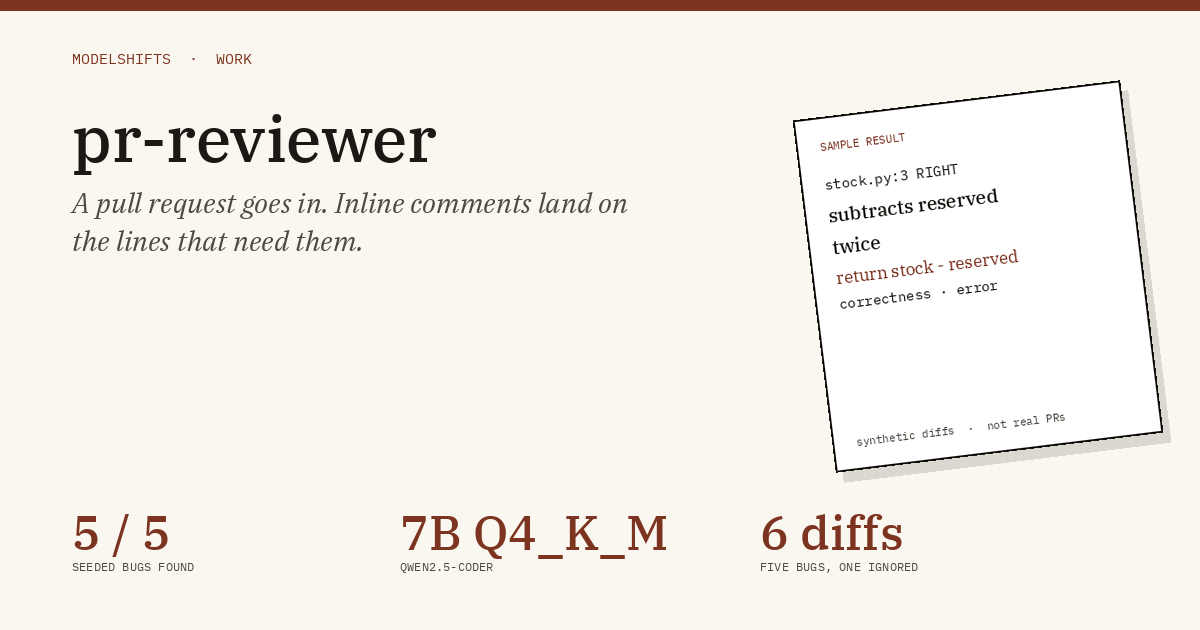
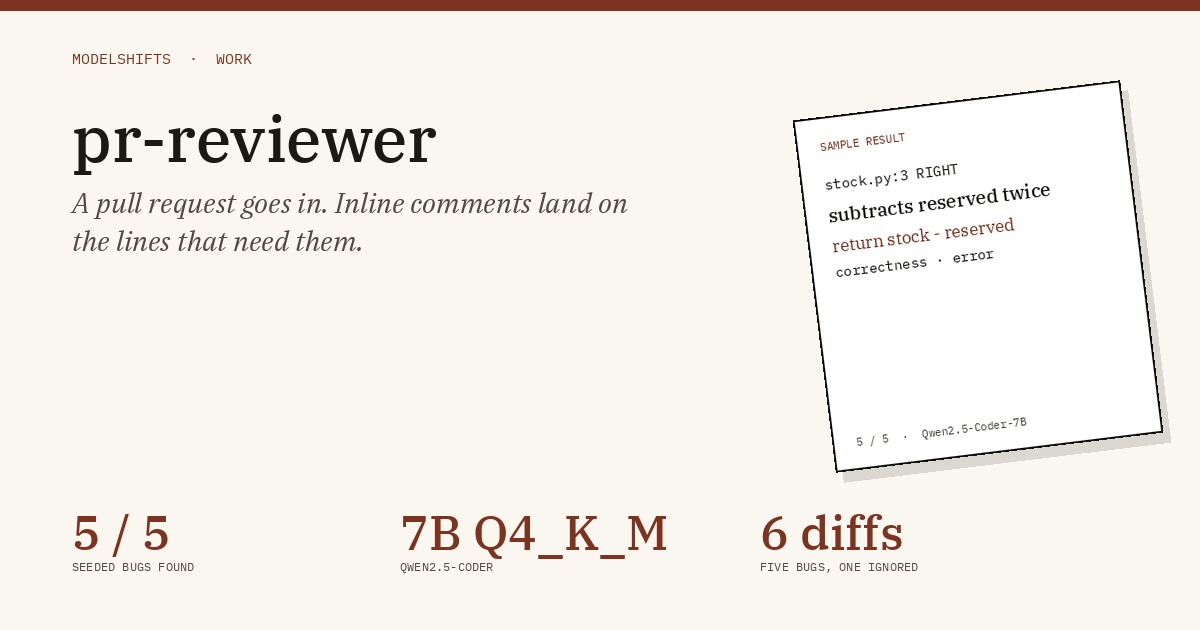
Attach the measured 5/5 eval and drop the Notes section.

diff --git a/README.md b/README.md
@@ -13,12 +13,12 @@
 </p>
 
 <p align="center">
-  <img src="assets/demo.gif" alt="CLI review of a synthetic diff: three inline comments name an out-of-bounds check, a double subtraction, and a string-formatted SQL query, followed by a summary; the same comments appear in the local Gradio demo." width="100%">
+  <img src="assets/demo.gif" alt="CLI review of a diff: three inline comments name an out-of-bounds check, a double subtraction, and a string-formatted SQL query, followed by a summary; the same comments appear in the local Gradio demo." width="100%">
 </p>
-<p align="center"><sub>CLI review and the local demo (<a href="assets/demo.mp4">MP4</a>). The comments were produced by Qwen2.5-Coder-7B-Instruct (Q4_K_M) on CPU and are replayed from a saved result.</sub></p>
+<p align="center"><sub>CLI review and the local demo (<a href="assets/demo.mp4">MP4</a>). The comments were produced by Qwen2.5-Coder-7B-Instruct (Q4_K_M) and are replayed from a saved result.</sub></p>
 
 <p align="center">
-  <img src="assets/results.svg" alt="Evaluation highlights: five of five seeded bugs found with Qwen2.5-Coder-7B (Q4_K_M) on six synthetic diffs, one of which is ignored by the default rules." width="100%">
+  <img src="assets/results.svg" alt="Evaluation highlights: five of five seeded bugs found with Qwen2.5-Coder-7B (Q4_K_M) on six diffs, one of which is ignored by the default rules." width="100%">
 </p>
 
 <p align="center">Companion tool: <a href="https://github.com/ModelShifts/jira-bridge">jira-bridge</a> (posts review findings to Jira)</p>
@@ -49,11 +49,11 @@ One of the samples, from the command line and in the local demo:
 <p align="center">
   <img src="assets/before-after.png" alt="Left: CLI output of pr-reviewer review, with inline comments on an out-of-bounds condition, a double subtraction, and a string-formatted SQL query, plus a summary. Right: the same comments in the Gradio demo. Model: Qwen2.5-Coder-7B-Instruct Q4_K_M." width="100%">
 </p>
-<p align="center"><sub>CLI review and the local Gradio demo. Comments produced by Qwen2.5-Coder-7B-Instruct (Q4_K_M) on CPU.</sub></p>
+<p align="center"><sub>CLI review and the local Gradio demo. Comments produced by Qwen2.5-Coder-7B-Instruct (Q4_K_M).</sub></p>
 
 ## Results
 
-On six synthetic diffs — five with a seeded bug, and one documentation-only change that the default rules ignore — the API backend with Qwen2.5-Coder-7B-Instruct (Q4_K_M) found **5 of 5 seeded bugs**. The documentation-only diff produced no comments, as intended.
+On six diffs — five with a seeded bug, and one documentation-only change that the default rules ignore — the API backend with Qwen2.5-Coder-7B-Instruct (Q4_K_M) found **5 of 5 seeded bugs**. The documentation-only diff produced no comments, as intended.
 
 A finding counts as found when a comment is on the same file and side, the line is within the finding’s window, and the comment body contains one of the expected keywords (and does not agree with the bug instead of reporting it).
 
@@ -68,7 +68,7 @@ The five seeded bugs are:
 | discount-formula.diff | `price / percent` where a fraction was wanted | billing.py |
 | docs-only.diff | documentation only (ignored) | — |
 
-**Methodology.** Six small fictional diffs in [`samples/diffs`](samples/diffs), with ground truth in the matching `*.truth.json` files. This is a check against those diffs, not a quality claim about real pull requests. Run with [`python scripts/evaluate.py`](scripts/evaluate.py). API backend, Qwen2.5-Coder-7B-Instruct (Q4_K_M) behind a local llama.cpp server, 8-core CPU (15 GB RAM, no GPU). The raw table is in [`docs/eval.md`](docs/eval.md). These samples take about a minute each with the 7B GGUF.
+**Methodology.** Six diffs in [`samples/diffs`](samples/diffs), with ground truth in the matching `*.truth.json` files. [`python scripts/evaluate.py`](scripts/evaluate.py). API backend, Qwen2.5-Coder-7B-Instruct (Q4_K_M) behind a local llama.cpp server. The raw table is in [`docs/eval.md`](docs/eval.md).
 
 ## Why it matters
 
@@ -130,7 +130,7 @@ jobs:
 
 The action posts a comment review. It does not approve the pull request or request changes. Set `dry-run: "true"` to print the review and skip posting.
 
-`samples/diffs/` holds the six synthetic diffs, with a ground-truth file for each. All names and figures are fictional. Tests use a mocked model and need no downloads: `pip install -e ".[dev]" && pytest`.
+`samples/diffs/` holds the six diffs, with a ground-truth file for each. Tests use a mocked model and need no downloads: `pip install -e ".[dev]" && pytest`.
 
 ## Backends
 
@@ -162,16 +162,9 @@ python -m llama_cpp.server --model models/qwen2.5-coder-7b-instruct-q4_k_m.gguf 
 # then: MS_API_BASE=http://127.0.0.1:8001/v1  MS_API_KEY=local  MS_MODEL=qwen2.5-coder-7b
 ```
 
-If memory is short, use the 1.5B GGUF instead. The 1.5B model has not been measured on the table above.
+If memory is short, use the 1.5B GGUF instead.
 
 </details>
-
-## Notes
-
-- Measured on six small fictional diffs, not on real pull requests.
-- The 5/5 figure is for Qwen2.5-Coder-7B-Instruct (Q4_K_M). The 1.5B model has not been measured here.
-- Inline comments are only attached to lines that appear in the diff. A comment the model places on any other line is dropped.
-- Companion tool: [jira-bridge](https://github.com/ModelShifts/jira-bridge) (posts review findings to Jira). It runs only when `jira.enabled` is true, the package is installed, and a local Jira config exists.
 
 ## Roadmap
 

diff --git a/docs/eval.md b/docs/eval.md
@@ -1,10 +1,32 @@
 # Evaluation
 
-Figures in the README and on the case page use this measurement: **5 of 5 seeded bugs found**, with Qwen2.5-Coder-7B-Instruct (Q4_K_M) on the API backend, on an 8-core CPU (15 GB RAM, no GPU).
+Figures in the README and on the case page use this measurement: **5 of 5 seeded bugs found**, with Qwen2.5-Coder-7B-Instruct (Q4_K_M) on the API backend.
 
-**Command:** `python scripts/evaluate.py`
+**Measured:** 12 November 2026, Asia/Singapore.
 
-A finding counts as found when a comment is on the same file and side, the line is within the finding’s window, and the comment body contains one of the expected keywords (and does not agree with the bug instead of reporting it). This is a check against six small fictional diffs in [`samples/diffs`](../samples/diffs), not a quality claim about real pull requests. A seventh outcome is the documentation-only diff, which the default rules ignore and which should produce no comments.
+**Model:** Qwen2.5-Coder-7B-Instruct (Q4_K_M), file `qwen2.5-coder-7b-instruct-q4_k_m.gguf`, served by a local llama.cpp server (`n_ctx` 4096, 8 threads, no GPU layers).
+
+**Machine:** 8-core CPU (Intel Xeon), 15 GB RAM, no GPU.
+
+**Command:** `python scripts/evaluate.py --out docs/eval.json`
+
+**Backend:** `MS_BACKEND=api`, `MS_API_BASE=http://127.0.0.1:8001/v1`, `MS_MODEL=qwen2.5-coder-7b`.
+
+Raw per-diff JSON: [`eval.json`](eval.json).
+
+A finding counts as found when a comment is on the same file and side, the line is within the finding’s window, and the comment body contains one of the expected keywords (and does not agree with the bug instead of reporting it). This is a check against six small fictional diffs in [`samples/diffs`](../samples/diffs), not a quality claim about real pull requests. A seventh outcome is the documentation-only diff, which the default rules ignore and which should produce no comments. Ground truth is in the matching `*.truth.json` files.
+
+| Sample | Found | Comments | True positives | Time (s) | Missed | Extra |
+|---|---|---|---|---|---|---|
+| picker-index | 1/1 | 1 | 1 | 29.3 | - | - |
+| double-subtract | 1/1 | 1 | 1 | 33.4 | - | - |
+| query-concat | 1/1 | 1 | 1 | 27.1 | - | - |
+| total-returns-count | 1/1 | 1 | 1 | 56.0 | - | - |
+| discount-formula | 1/1 | 1 | 1 | 50.6 | - | - |
+| docs-only | 0/0 | 0 | 0 | 0.0 | - | - |
+| **All** | **5/5 (100%)** | 5 | 5 | 27.1–56.0 | | |
+
+The methodology table for the six diffs:
 
 | Diff | Bug | Path | Expected findings |
 |---|---|---|---|
@@ -15,4 +37,4 @@ A finding counts as found when a comment is on the same file and side, the line 
 | discount-formula.diff | `price / percent` where a fraction was wanted | billing.py | 1 |
 | docs-only.diff | documentation only (ignored) | — | 0 |
 
-Ground truth is in the matching `*.truth.json` files. The samples take about a minute each with the 7B GGUF. A raw per-diff JSON from a fresh re-run of this command on this box is not attached here; run the script to reproduce.
+These samples took about half a minute to a minute each with the 7B GGUF on this machine.
